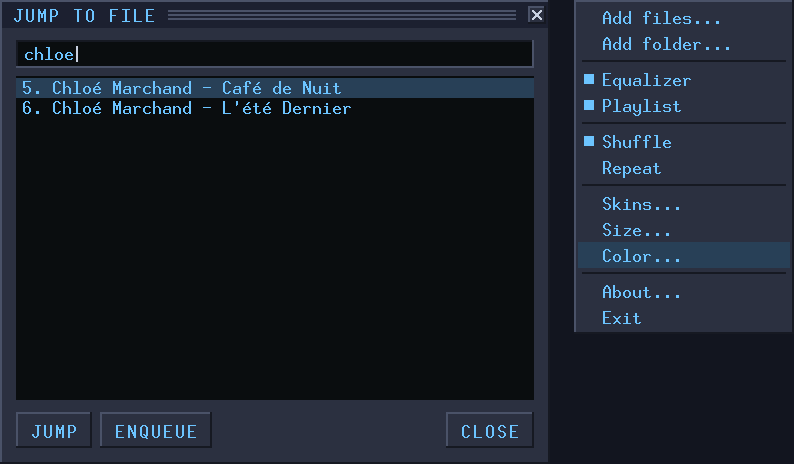
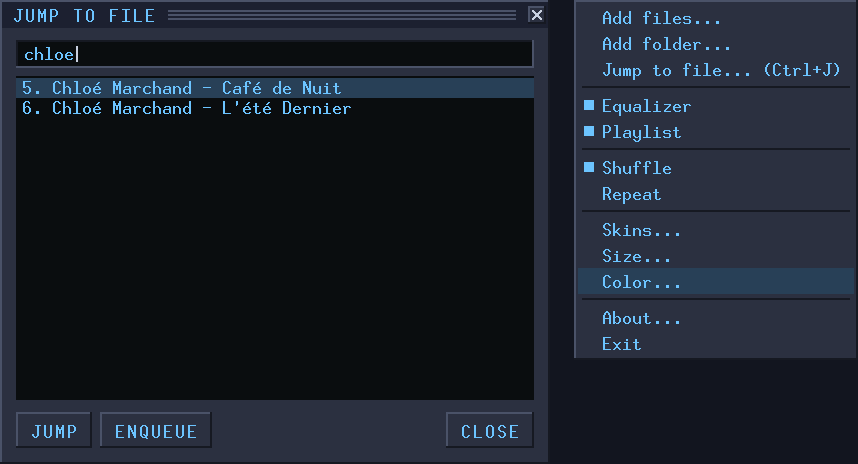
Jump to file button and menu items

diff --git a/website/index.html b/website/index.html
@@ -284,7 +284,7 @@ footer p { margin: 0 0 8px; }
             <li><strong>Playlists in order.</strong> Sort, shuffle and save them.</li>
             <li><strong>Sharp on any screen</strong>, from an old monitor to 4K.</li>
         </ul>
-        <img class="shot" src="img/details.png" width="794" height="464" alt="Finding a track by typing part of its name, and the menu">
+        <img class="shot" src="img/details.png" width="858" height="464" alt="Finding a track by typing part of its name, and the menu">
     </div>
 </div>
 </section>

diff --git a/tests/test_render.c b/tests/test_render.c
@@ -246,22 +246,32 @@ static void test_hit_testing(const Skin *skin)
     CHECK(eq_slider_value(0) == 1.0f && eq_slider_value(500) == -1.0f && eq_slider_value(69) == 0.0f);
 
     pl_set_size(PL_MIN_W, 232);
-    CHECK_INT(pl_hit(100, 10), UI_PL_TITLEBAR);
-    CHECK_INT(pl_hit(100, 60), UI_PL_LIST);
-    CHECK_INT(pl_hit(24, 210), UI_PL_ADD);
-    CHECK_INT(pl_hit(54, 210), UI_PL_REMOVE);
-    CHECK_INT(pl_hit(83, 210), UI_PL_SELECT);
-    CHECK_INT(pl_hit(112, 210), UI_PL_MISC);
-    CHECK_INT(pl_hit(39, 210), UI_NONE);                /* the gap between ADD and REM */
-    CHECK_INT(pl_hit(pl_list_button_x() + 10, 210), UI_PL_LISTOPTS);
-    CHECK_INT(pl_hit(129, 220), UI_PL_PREV);            /* small controls, 9 wide each */
-    CHECK_INT(pl_hit(138, 220), UI_PL_PLAY);
-    CHECK_INT(pl_hit(147, 220), UI_PL_PAUSE);
-    CHECK_INT(pl_hit(156, 220), UI_PL_STOP);
-    CHECK_INT(pl_hit(165, 220), UI_PL_NEXT);
-    CHECK_INT(pl_hit(174, 220), UI_PL_OPEN);
-    CHECK_INT(pl_hit(183, 220), UI_NONE);
-    CHECK_INT(pl_hit(270, 228), UI_PL_RESIZE);
+    CHECK_INT(pl_hit(skin, 100, 10), UI_PL_TITLEBAR);
+    CHECK_INT(pl_hit(skin, 100, 60), UI_PL_LIST);
+    CHECK_INT(pl_hit(skin, 24, 210), UI_PL_ADD);
+    CHECK_INT(pl_hit(skin, 54, 210), UI_PL_REMOVE);
+    CHECK_INT(pl_hit(skin, 83, 210), UI_PL_SELECT);
+    CHECK_INT(pl_hit(skin, 112, 210), UI_PL_MISC);
+    CHECK_INT(pl_hit(skin, 39, 210), UI_NONE);                /* the gap between ADD and REM */
+    CHECK_INT(pl_hit(skin, pl_list_button_x() + 10, 210), UI_PL_LISTOPTS);
+    CHECK_INT(pl_hit(skin, 129, 220), UI_PL_PREV);            /* small controls, 9 wide each */
+    CHECK_INT(pl_hit(skin, 138, 220), UI_PL_PLAY);
+    CHECK_INT(pl_hit(skin, 147, 220), UI_PL_PAUSE);
+    CHECK_INT(pl_hit(skin, 156, 220), UI_PL_STOP);
+    CHECK_INT(pl_hit(skin, 165, 220), UI_PL_NEXT);
+    CHECK_INT(pl_hit(skin, 174, 220), UI_PL_OPEN);
+    CHECK_INT(pl_hit(skin, 183, 220), UI_NONE);
+    CHECK_INT(pl_hit(skin, 270, 228), UI_PL_RESIZE);
+    CHECK_INT(pl_hit(skin, 264, 210), UI_PL_JUMP);      /* the magnifier, right of LIST */
+    CHECK_INT(pl_hit(skin, 258, 225), UI_NONE);         /* below it, left of the grip */
+    {
+        /* A classic playlist has no magnifier, and its larger resize corner. */
+        Skin classic = *skin;
+
+        classic.builtin[SKIN_PLEDIT] = 0;
+        CHECK_INT(pl_hit(&classic, 264, 207), UI_NONE);
+        CHECK_INT(pl_hit(&classic, 258, 225), UI_PL_RESIZE);
+    }
     CHECK_INT(pl_visible_rows(), 17);
     CHECK_INT(pl_row_at(22), 0);
     CHECK_INT(pl_row_at(45), 2);

diff --git a/src/main.c b/src/main.c
@@ -122,7 +122,7 @@ enum {
     CMD_SELECT_ALL, CMD_SELECT_NONE, CMD_SELECT_INVERT,
     CMD_SORT_TITLE, CMD_SORT_FILENAME, CMD_SORT_PATH, CMD_REVERSE, CMD_RANDOMIZE,
     CMD_LIST_NEW, CMD_LIST_OPEN, CMD_LIST_SAVE, CMD_ABOUT, CMD_SKIN_LOAD,
-    CMD_QUEUE_SELECTED, CMD_QUEUE_CLEAR,
+    CMD_QUEUE_SELECTED, CMD_QUEUE_CLEAR, CMD_JUMP,
     CMD_SIZE_FIRST = 1500,      /* + index into size_choices */
     CMD_PRESET_FIRST = 1600,    /* + index into presets */
     CMD_COLOR_FIRST = 1700,     /* + index into theme_presets */
@@ -1356,6 +1356,7 @@ static void open_menu(int which)
     } else if (which == MENU_MAIN) {
         menu_add("Add files...", CMD_ADD_FILES, 0);
         menu_add("Add folder...", CMD_ADD_FOLDER, 0);
+        menu_add("Jump to file... (Ctrl+J)", CMD_JUMP, 0);
         menu_add(NULL, 0, 0);
         menu_add("Equalizer", CMD_EQ, wins[WIN_EQ].visible);
         menu_add("Playlist", CMD_PL, wins[WIN_PL].visible);
@@ -1555,6 +1556,11 @@ static void do_action(int element)
     case UI_JUMP_DISMISS:
         set_window_visible(WIN_JUMP, 0);
         break;
+    case UI_PL_JUMP:
+    case CMD_JUMP:
+        open_jump();
+        jump_skip_text = 0;     /* opened by the mouse: no key press to swallow */
+        break;
     case UI_JUMP_PLAY:
         jump_play_selected();
         break;
@@ -1738,7 +1744,7 @@ static int hit_test(int win, int x, int y, int *slider)
 {
     switch (win) {
     case WIN_EQ: return eq_hit(x, y, slider);
-    case WIN_PL: return pl_hit(x, y);
+    case WIN_PL: return pl_hit(&skin, x, y);
     case WIN_JUMP: return jump_hit(x, y);
     case WIN_ABOUT: return about_hit(x, y);
     default:     return ui_hit(&skin, x, y);

diff --git a/src/ui_playlist.c b/src/ui_playlist.c
@@ -19,6 +19,9 @@
 #define MINI_W    9         /* one small transport control */
 #define MINI_H    9
 #define GRIP_SIZE 20        /* resize area in the bottom right corner */
+#define GRIP_SIZE_BUILTIN 12    /* smaller in the built-in look, to leave room for the magnifier above it */
+#define JUMP_BUTTON_W 16
+#define JUMP_BUTTON_X (pl_w - 19)   /* between LIST and the right edge */
 
 /* Current window size; everything else is derived from it. */
 static int pl_w = PL_MIN_W, pl_h = 232;
@@ -58,8 +61,10 @@ int pl_row_at(int y)
     return (y - LIST_Y - 2) / ROW_H;
 }
 
-int pl_hit(int x, int y)
+int pl_hit(const Skin *skin, int x, int y)
 {
+    int builtin = skin->builtin[SKIN_PLEDIT], grip = builtin ? GRIP_SIZE_BUILTIN : GRIP_SIZE;
+
     if (inside(x, y, pl_w - 11, 3, 9, 9))
         return UI_PL_CLOSE;
     if (y < TOP_H)
@@ -68,8 +73,11 @@ int pl_hit(int x, int y)
         return UI_PL_LIST;
     if (inside(x, y, SCROLL_X - 2, LIST_Y, HANDLE_W + 4, LIST_H))
         return UI_PL_SCROLL;
-    if (inside(x, y, pl_w - GRIP_SIZE, pl_h - GRIP_SIZE, GRIP_SIZE, GRIP_SIZE))
+    if (inside(x, y, pl_w - grip, pl_h - grip, grip, grip))
         return UI_PL_RESIZE;
+    /* Classic skins have no picture for the magnifier, so no button either. */
+    if (builtin && inside(x, y, JUMP_BUTTON_X, BUTTON_Y, JUMP_BUTTON_W, BUTTON_H))
+        return UI_PL_JUMP;
     if (inside(x, y, PL_BUTTON_X(0), BUTTON_Y, 4 * PL_BUTTON_PITCH, BUTTON_H) &&
         (x - PL_BUTTON_X(0)) % PL_BUTTON_PITCH < BUTTON_W)
         return UI_PL_ADD + (x - PL_BUTTON_X(0)) / PL_BUTTON_PITCH;       /* ADD, REM, SEL, MISC */

diff --git a/src/skin_default.c b/src/skin_default.c
@@ -539,6 +539,26 @@ static void mini_icon(Canvas *c, int which, int x, int y, uint32_t color)
     }
 }
 
+/* A magnifying glass, about 10 across, with the centre of its lens at cx, cy. */
+static void magnifier_icon(Canvas *c, float cx, float cy, uint32_t color)
+{
+    float ring[13 * 2], handle[4];
+    int i;
+
+    for (i = 0; i < 13; i++) {
+        float a = (float)i * PI_F / 6;
+
+        ring[i * 2] = cx + 3.0f * cosf(a);
+        ring[i * 2 + 1] = cy + 3.0f * sinf(a);
+    }
+    gfx_polyline(c, ring, 13, 1.3f, color);
+    handle[0] = cx + 2.4f;
+    handle[1] = cy + 2.4f;
+    handle[2] = cx + 5.2f;
+    handle[3] = cy + 5.2f;
+    gfx_polyline(c, handle, 2, 1.8f, color);
+}
+
 static void paint_pledit(Canvas *c)
 {
     static const char *const labels[] = { "ADD", "REM", "SEL", "MISC" };
@@ -591,6 +611,9 @@ static void paint_pledit(Canvas *c)
         mini_icon(c, i, 126 + 4 + i * 9, 72 + 23, COL_TEXT);
     groove(c, 126 + 63, 72 + 21, 36, 11);
     list_button(c, 126 + 104, 72 + 8, "LIST");
+    /* Jump to file, in the space left between LIST and the corner */
+    button(c, 126 + 131, 72 + 8, 16, 18, 0);
+    magnifier_icon(c, 126 + 131 + 7.0f, 72 + 8 + 8.0f, COL_TEXT);
 }
 
 void skin_paint_builtin(Canvas *c, int sheet)

diff --git a/tools/webshots.c b/tools/webshots.c
@@ -201,7 +201,8 @@ static void shot_colors(int scale)
 static void shot_jump(int scale)
 {
     static const MenuItem items[] = {
-        { "Add files...", 1, 0, 0 }, { "Add folder...", 2, 0, 0 }, { NULL, 0, 0, 0 },
+        { "Add files...", 1, 0, 0 }, { "Add folder...", 2, 0, 0 }, { "Jump to file... (Ctrl+J)", 12, 0, 0 },
+        { NULL, 0, 0, 0 },
         { "Equalizer", 3, 1, 0 }, { "Playlist", 4, 1, 0 }, { NULL, 0, 0, 0 },
         { "Shuffle", 5, 1, 0 }, { "Repeat", 6, 0, 0 }, { NULL, 0, 0, 0 },
         { "Skins...", 7, 0, 0 }, { "Size...", 8, 0, 0 }, { "Color...", 9, 0, 0 }, { NULL, 0, 0, 0 },
@@ -230,7 +231,7 @@ static void shot_jump(int scale)
     free(px);
 
     px = malloc(sizeof(uint32_t) * mw * mh);
-    menu_draw(px, menu_w, menu_h, scale, items, count, 11);
+    menu_draw(px, menu_w, menu_h, scale, items, count, 12);
     image_paste(&img, px, mw, mh, jw + gap, 0);
     free(px);
     image_save(&img, "details");

diff --git a/src/ui.h b/src/ui.h
@@ -61,6 +61,7 @@ enum {
     UI_PL_SELECT,
     UI_PL_MISC,
     UI_PL_LISTOPTS,
+    UI_PL_JUMP,             /* the magnifier: opens jump to file; built-in skin only */
     UI_PL_PREV,             /* the small transport controls */
     UI_PL_PLAY,
     UI_PL_PAUSE,
@@ -150,7 +151,7 @@ typedef struct {
 /* Sets the window size (unscaled pixels) used by every pl_* function. */
 void pl_set_size(int w, int h);
 void pl_draw(uint32_t *framebuffer, int scale, const Skin *skin, const PlModel *model);
-int  pl_hit(int x, int y);
+int  pl_hit(const Skin *skin, int x, int y);
 /* Left edge of the ADD, REM, SEL and MISC buttons (n = 0..3) and of LIST,
  * for placing their menus. */
 #define PL_BUTTON_PITCH 29

diff --git a/docs/WINDOWS_TESTING.md b/docs/WINDOWS_TESTING.md
@@ -166,8 +166,8 @@ H-22; SEL 82, H-22; MISC 111, H-22; LIST W-36, H-22; first row 100, 27, then
 previous W-143, play W-134, pause W-125, stop W-116, next W-107, open W-98.
 
 Main menu at 100% (popup window, empty title; rows are 13 high, separators
-5): Add files 8, Add folder 21, Equalizer 39, Playlist 52, Shuffle 70,
-Repeat 83, Skins 101, Size 114, Color 127, About 145, Exit 158 (all at
+5): Add files 8, Add folder 21, Jump to file 34, Equalizer 52, Playlist 65,
+Shuffle 83, Repeat 96, Skins 114, Size 127, Color 140, About 158, Exit 171 (all at
 x = 30). Submenus start with "< Back" at y 8, a separator, then entries from
 y 26 in steps of 13.
 
